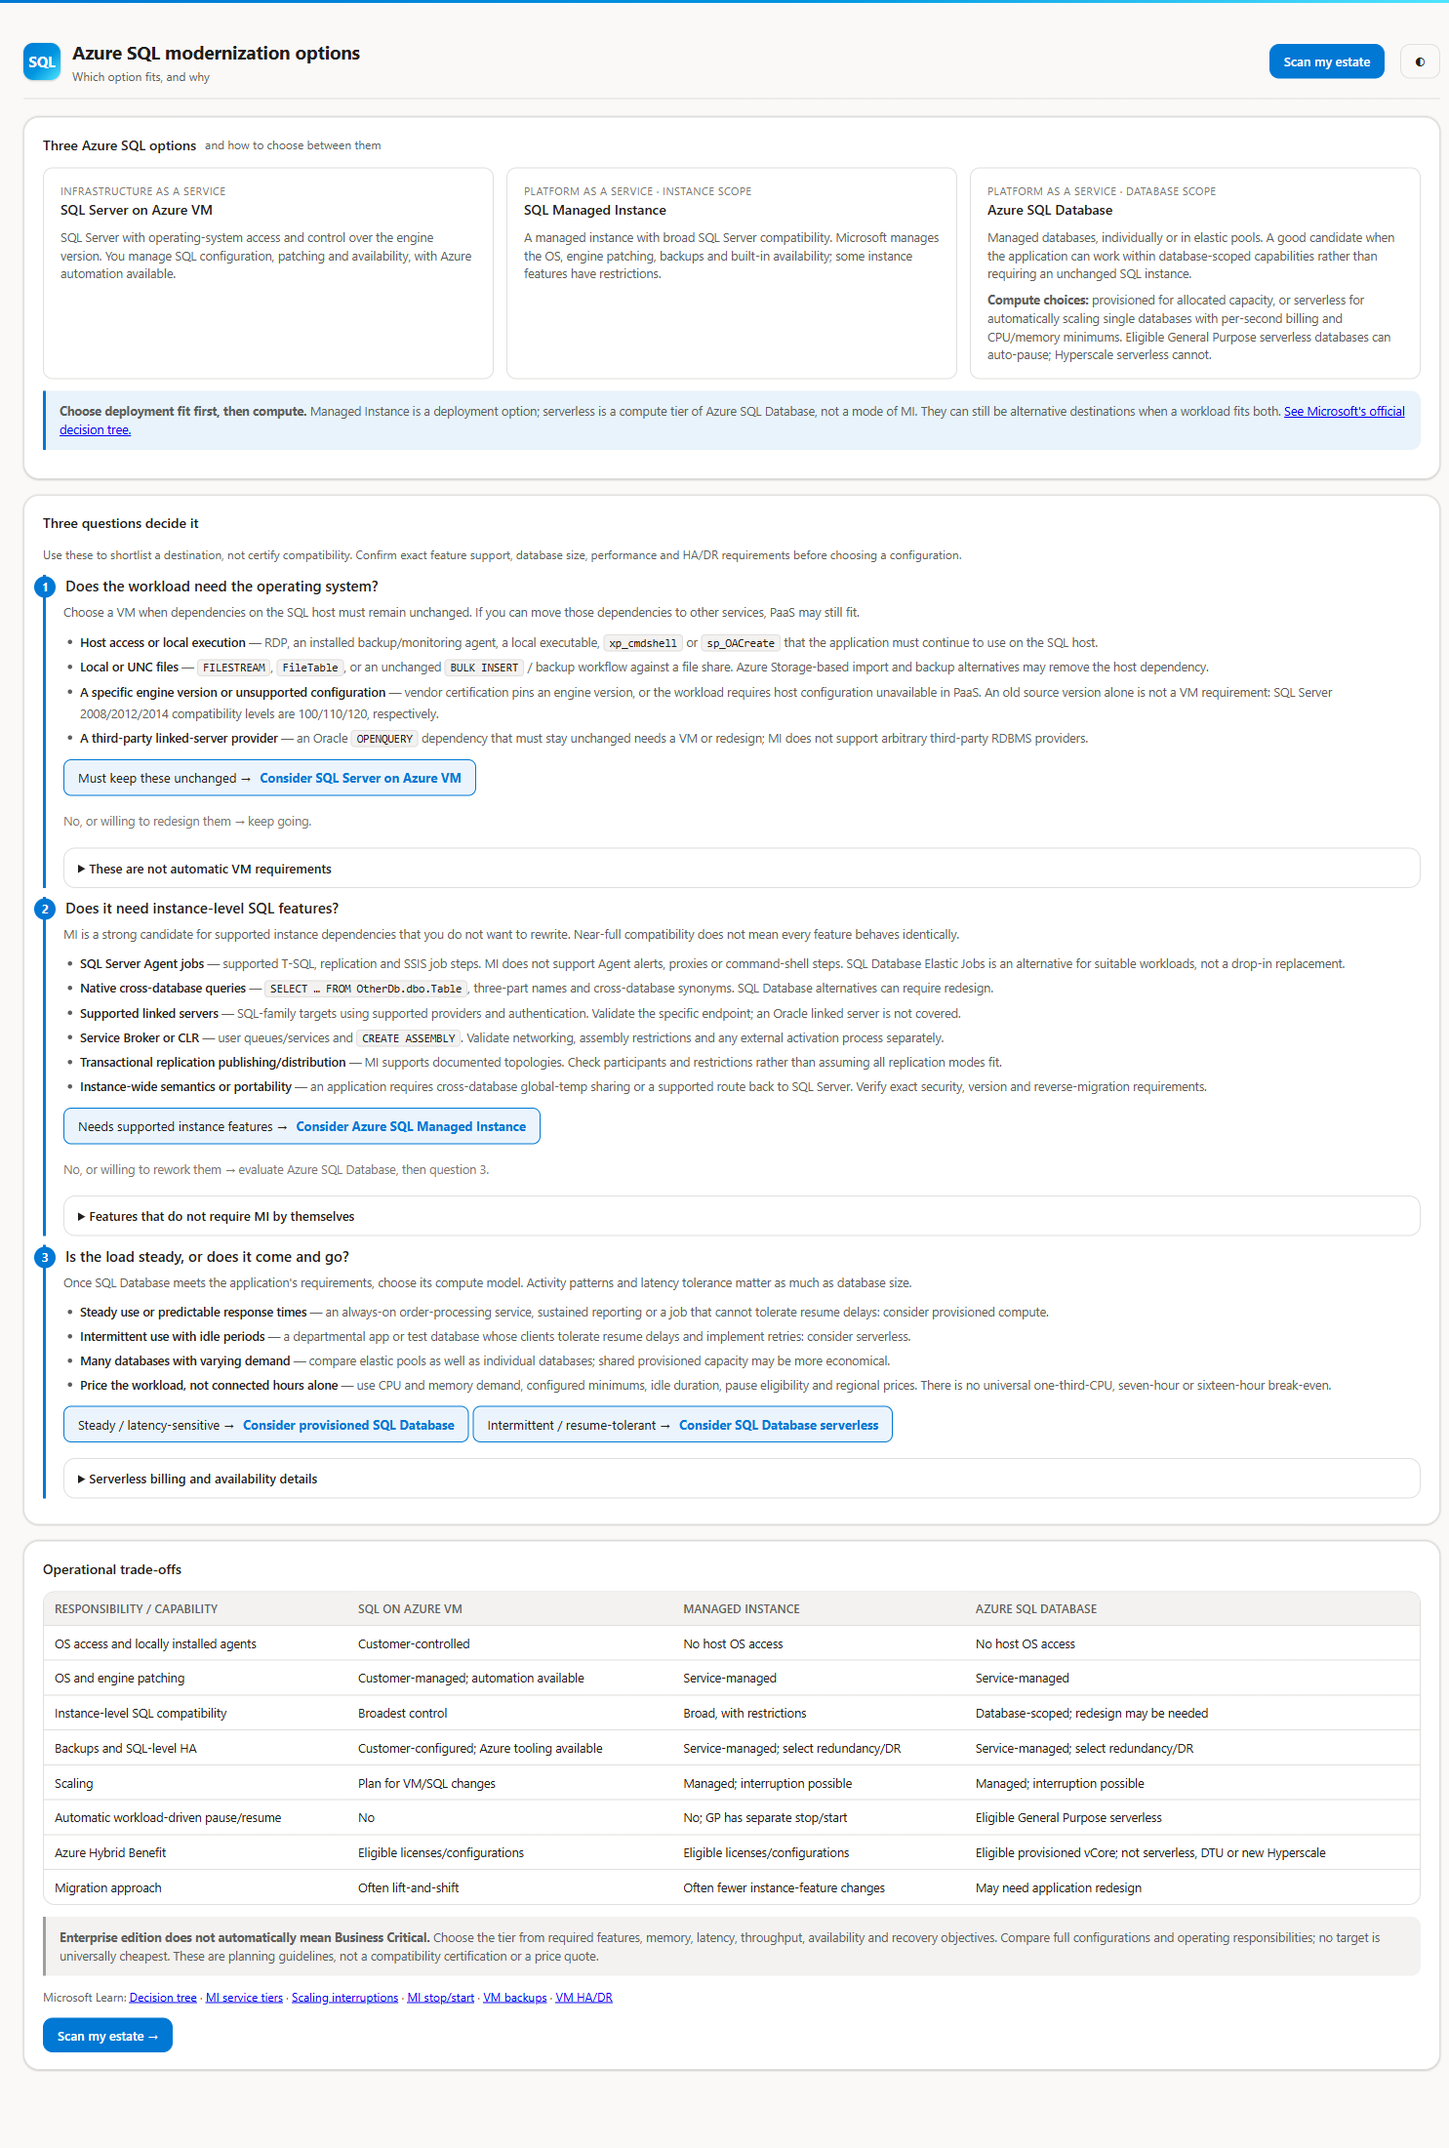
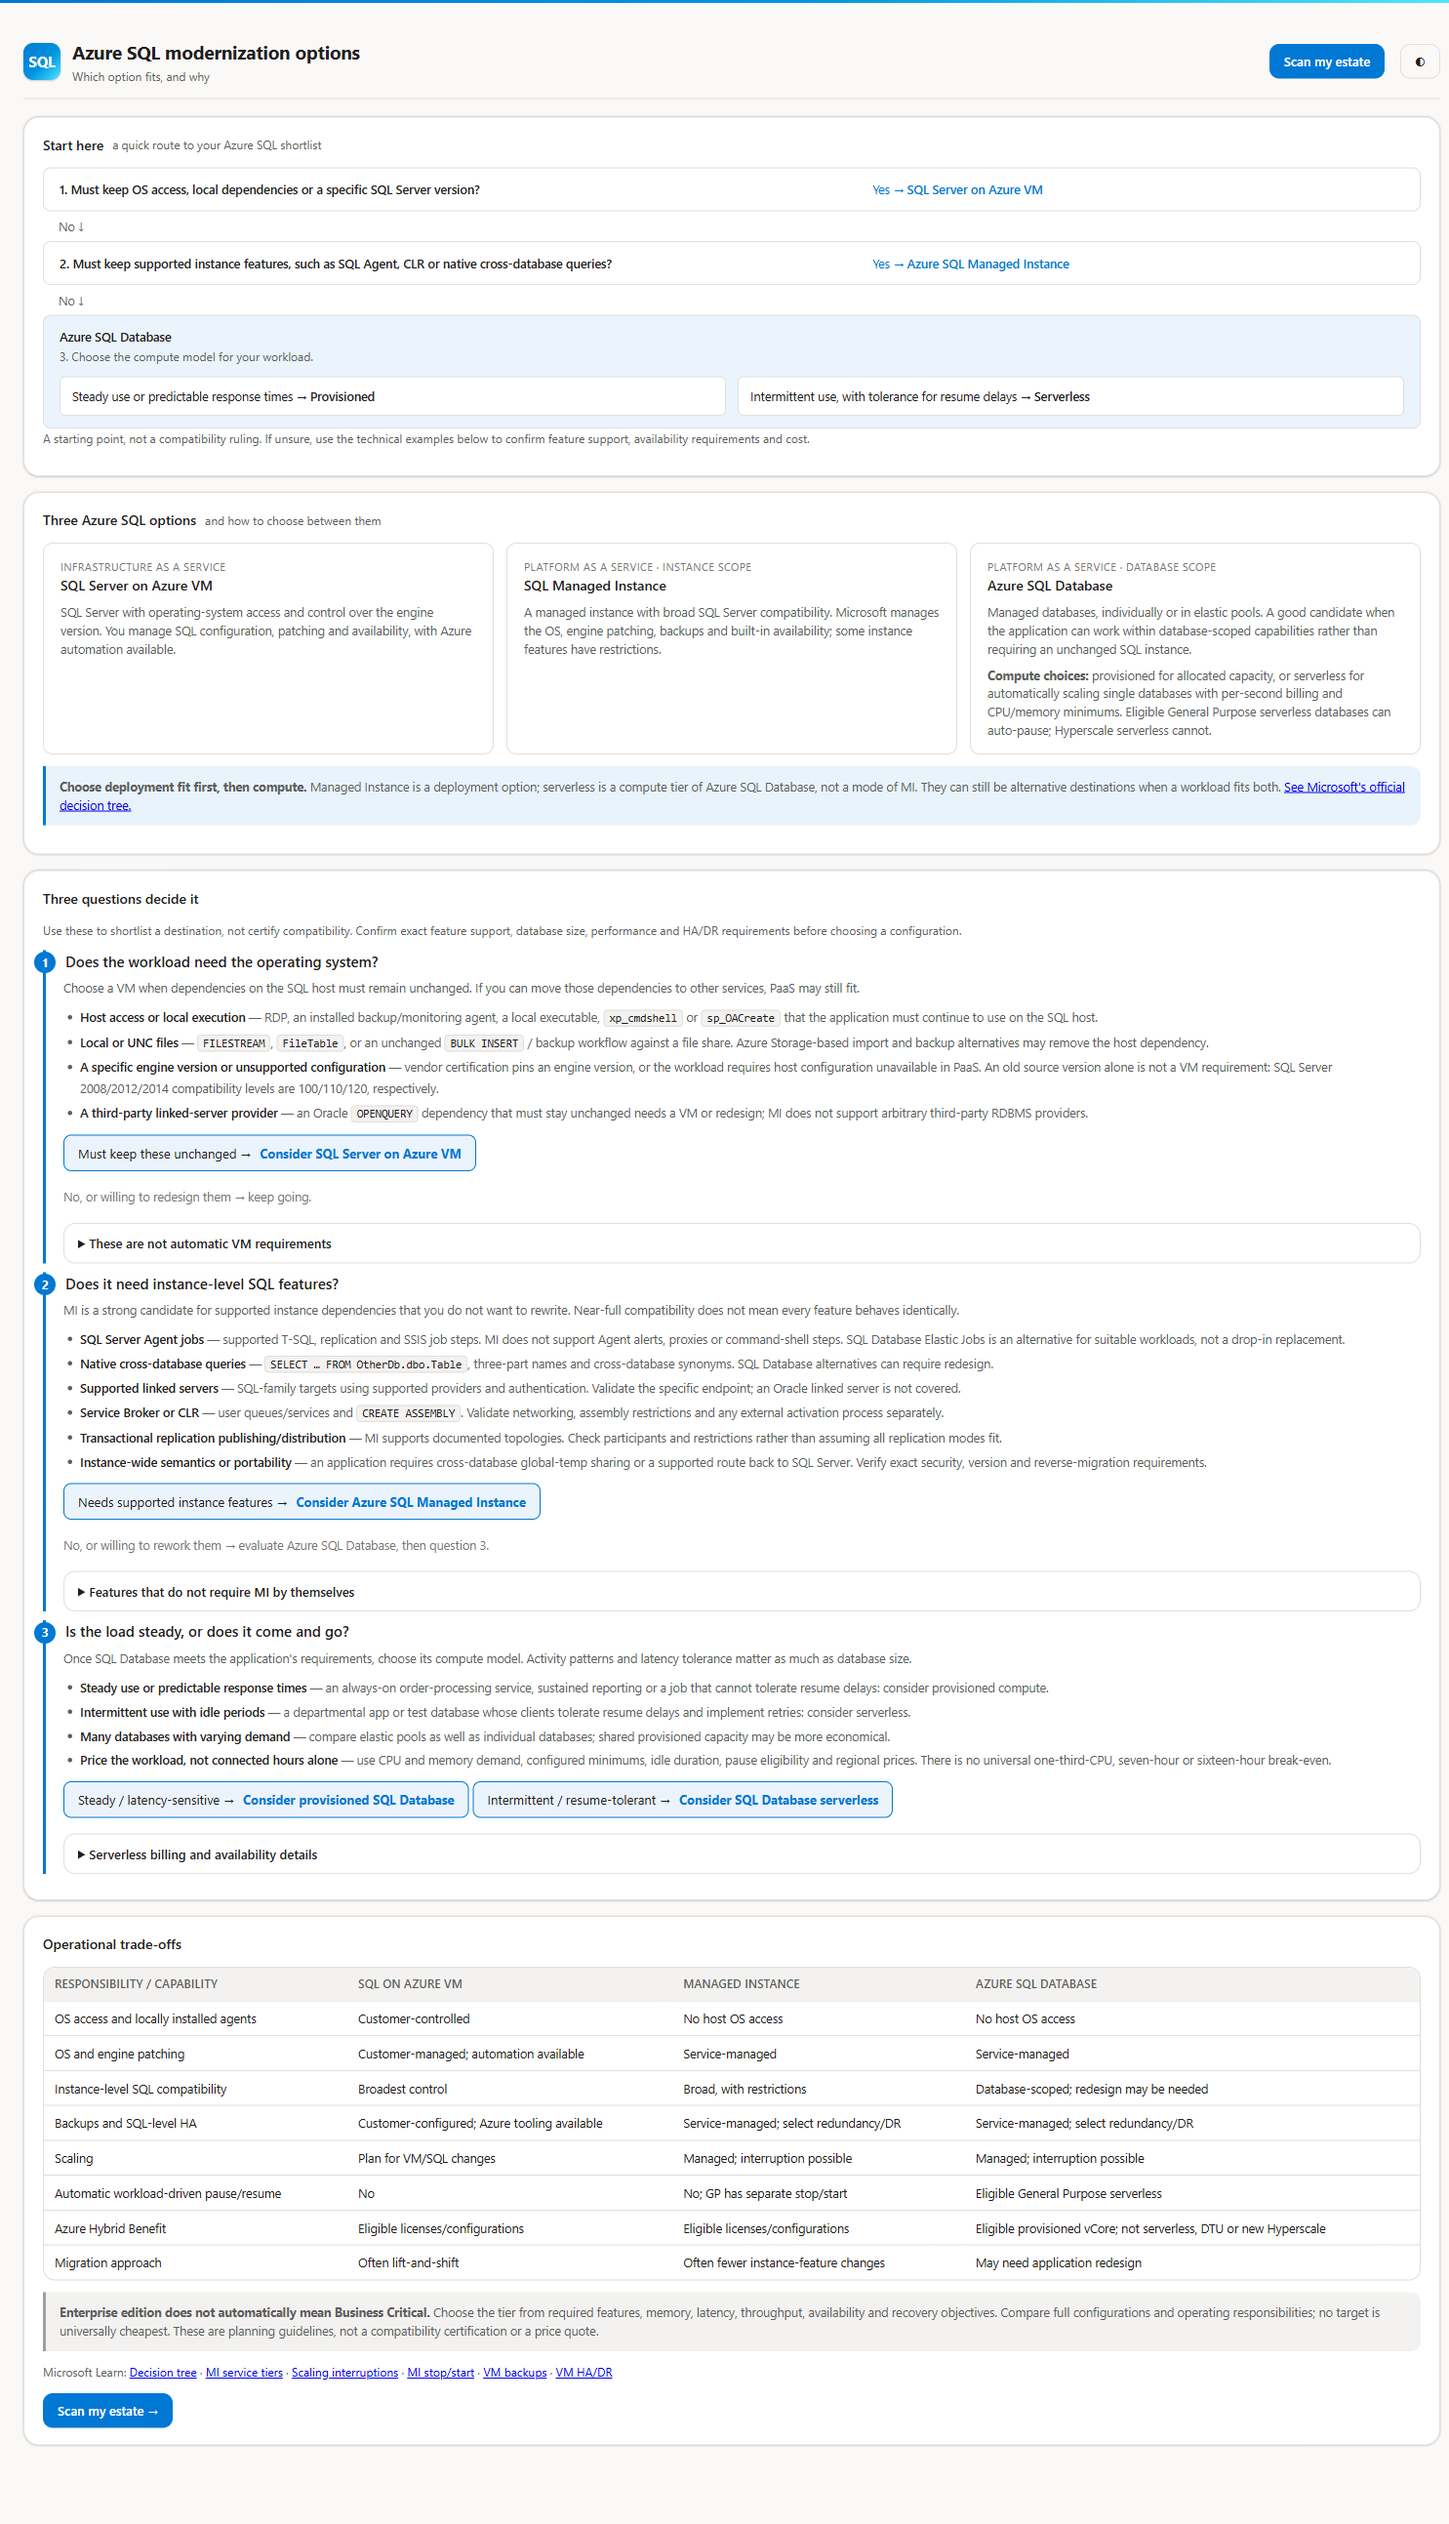
Add a simplified decision tree above the modernization guide
Keep existing detailed guidance unchanged; show deployment choices before provisioned versus serverless compute.

diff --git a/modernization-options/index.html b/modernization-options/index.html
@@ -356,6 +356,17 @@ details.acc[open] summary { margin-bottom: 9px; }
    Static explainer, no estate data. Reachable before anything is uploaded,
    because the first thing most customers need is not a number — it is to know
    that Managed Instance and serverless are not competing choices at all. */
+.quick-tree { font-size: 12.5px; }
+.quick-tree-step { display: grid; grid-template-columns: minmax(0, 3fr) minmax(0, 2fr); gap: 16px; padding: 12px 16px; border: 1px solid var(--cp-border); border-radius: 8px; }
+.quick-tree-step > div:last-child { color: var(--cp-accent); }
+.quick-tree-next { padding: 6px 16px; color: var(--cp-text-muted); }
+.quick-tree-database { padding: 12px 16px; background: var(--cp-accent-soft); border: 1px solid var(--cp-border); border-radius: 8px; }
+.quick-tree-compute { display: grid; grid-template-columns: repeat(2, minmax(0, 1fr)); gap: 12px; margin-top: 12px; }
+.quick-tree-compute > div { padding: 10px 12px; background: var(--cp-surface); border: 1px solid var(--cp-border); border-radius: 6px; }
+.quick-tree b { font-weight: 600; }
+@media (max-width: 760px) {
+  .quick-tree-step, .quick-tree-compute { grid-template-columns: 1fr; }
+}
 .q { border-left: 3px solid var(--cp-accent); padding: 0 0 0 18px; margin: 0 0 4px; }
 .q-head { display: flex; align-items: baseline; gap: 10px; }
 .q-n {
@@ -417,6 +428,30 @@ details.acc[open] summary { margin-bottom: 9px; }
     <button id="btnTheme" class="ghost" title="Toggle light/dark">&#9680;</button>
   </header>
   <section>
+<div class="card quick-tree">
+  <h3>Start here <span class="hint">a quick route to your Azure SQL shortlist</span></h3>
+  <div class="quick-tree-step">
+    <div><b>1. Must keep OS access, local dependencies or a specific SQL Server version?</b></div>
+    <div>Yes &rarr; <b>SQL Server on Azure VM</b></div>
+  </div>
+  <div class="quick-tree-next">No &darr;</div>
+  <div class="quick-tree-step">
+    <div><b>2. Must keep supported instance features, such as SQL Agent, CLR or native cross-database queries?</b></div>
+    <div>Yes &rarr; <b>Azure SQL Managed Instance</b></div>
+  </div>
+  <div class="quick-tree-next">No &darr;</div>
+  <div class="quick-tree-database">
+    <b>Azure SQL Database</b>
+    <div class="sub">3. Choose the compute model for your workload.</div>
+    <div class="quick-tree-compute">
+      <div>Steady use or predictable response times &rarr; <b>Provisioned</b></div>
+      <div>Intermittent use, with tolerance for resume delays &rarr; <b>Serverless</b></div>
+    </div>
+  </div>
+  <p class="sub">A starting point, not a compatibility ruling. If unsure, use the technical examples
+    below to confirm feature support, availability requirements and cost.</p>
+</div>
+
 <div class="card">
   <h3>Three Azure SQL options <span class="hint">and how to choose between them</span></h3>
   <div class="opt-grid">

diff --git a/src/guide.partial.html b/src/guide.partial.html
@@ -1,3 +1,27 @@
+<div class="card quick-tree">
+  <h3>Start here <span class="hint">a quick route to your Azure SQL shortlist</span></h3>
+  <div class="quick-tree-step">
+    <div><b>1. Must keep OS access, local dependencies or a specific SQL Server version?</b></div>
+    <div>Yes &rarr; <b>SQL Server on Azure VM</b></div>
+  </div>
+  <div class="quick-tree-next">No &darr;</div>
+  <div class="quick-tree-step">
+    <div><b>2. Must keep supported instance features, such as SQL Agent, CLR or native cross-database queries?</b></div>
+    <div>Yes &rarr; <b>Azure SQL Managed Instance</b></div>
+  </div>
+  <div class="quick-tree-next">No &darr;</div>
+  <div class="quick-tree-database">
+    <b>Azure SQL Database</b>
+    <div class="sub">3. Choose the compute model for your workload.</div>
+    <div class="quick-tree-compute">
+      <div>Steady use or predictable response times &rarr; <b>Provisioned</b></div>
+      <div>Intermittent use, with tolerance for resume delays &rarr; <b>Serverless</b></div>
+    </div>
+  </div>
+  <p class="sub">A starting point, not a compatibility ruling. If unsure, use the technical examples
+    below to confirm feature support, availability requirements and cost.</p>
+</div>
+
 <div class="card">
   <h3>Three Azure SQL options <span class="hint">and how to choose between them</span></h3>
   <div class="opt-grid">

diff --git a/index.html b/index.html
@@ -355,6 +355,17 @@ details.acc[open] summary { margin-bottom: 9px; }
    Static explainer, no estate data. Reachable before anything is uploaded,
    because the first thing most customers need is not a number — it is to know
    that Managed Instance and serverless are not competing choices at all. */
+.quick-tree { font-size: 12.5px; }
+.quick-tree-step { display: grid; grid-template-columns: minmax(0, 3fr) minmax(0, 2fr); gap: 16px; padding: 12px 16px; border: 1px solid var(--cp-border); border-radius: 8px; }
+.quick-tree-step > div:last-child { color: var(--cp-accent); }
+.quick-tree-next { padding: 6px 16px; color: var(--cp-text-muted); }
+.quick-tree-database { padding: 12px 16px; background: var(--cp-accent-soft); border: 1px solid var(--cp-border); border-radius: 8px; }
+.quick-tree-compute { display: grid; grid-template-columns: repeat(2, minmax(0, 1fr)); gap: 12px; margin-top: 12px; }
+.quick-tree-compute > div { padding: 10px 12px; background: var(--cp-surface); border: 1px solid var(--cp-border); border-radius: 6px; }
+.quick-tree b { font-weight: 600; }
+@media (max-width: 760px) {
+  .quick-tree-step, .quick-tree-compute { grid-template-columns: 1fr; }
+}
 .q { border-left: 3px solid var(--cp-accent); padding: 0 0 0 18px; margin: 0 0 4px; }
 .q-head { display: flex; align-items: baseline; gap: 10px; }
 .q-n {

diff --git a/src/app.template.html b/src/app.template.html
@@ -355,6 +355,17 @@ details.acc[open] summary { margin-bottom: 9px; }
    Static explainer, no estate data. Reachable before anything is uploaded,
    because the first thing most customers need is not a number — it is to know
    that Managed Instance and serverless are not competing choices at all. */
+.quick-tree { font-size: 12.5px; }
+.quick-tree-step { display: grid; grid-template-columns: minmax(0, 3fr) minmax(0, 2fr); gap: 16px; padding: 12px 16px; border: 1px solid var(--cp-border); border-radius: 8px; }
+.quick-tree-step > div:last-child { color: var(--cp-accent); }
+.quick-tree-next { padding: 6px 16px; color: var(--cp-text-muted); }
+.quick-tree-database { padding: 12px 16px; background: var(--cp-accent-soft); border: 1px solid var(--cp-border); border-radius: 8px; }
+.quick-tree-compute { display: grid; grid-template-columns: repeat(2, minmax(0, 1fr)); gap: 12px; margin-top: 12px; }
+.quick-tree-compute > div { padding: 10px 12px; background: var(--cp-surface); border: 1px solid var(--cp-border); border-radius: 6px; }
+.quick-tree b { font-weight: 600; }
+@media (max-width: 760px) {
+  .quick-tree-step, .quick-tree-compute { grid-template-columns: 1fr; }
+}
 .q { border-left: 3px solid var(--cp-accent); padding: 0 0 0 18px; margin: 0 0 4px; }
 .q-head { display: flex; align-items: baseline; gap: 10px; }
 .q-n {
